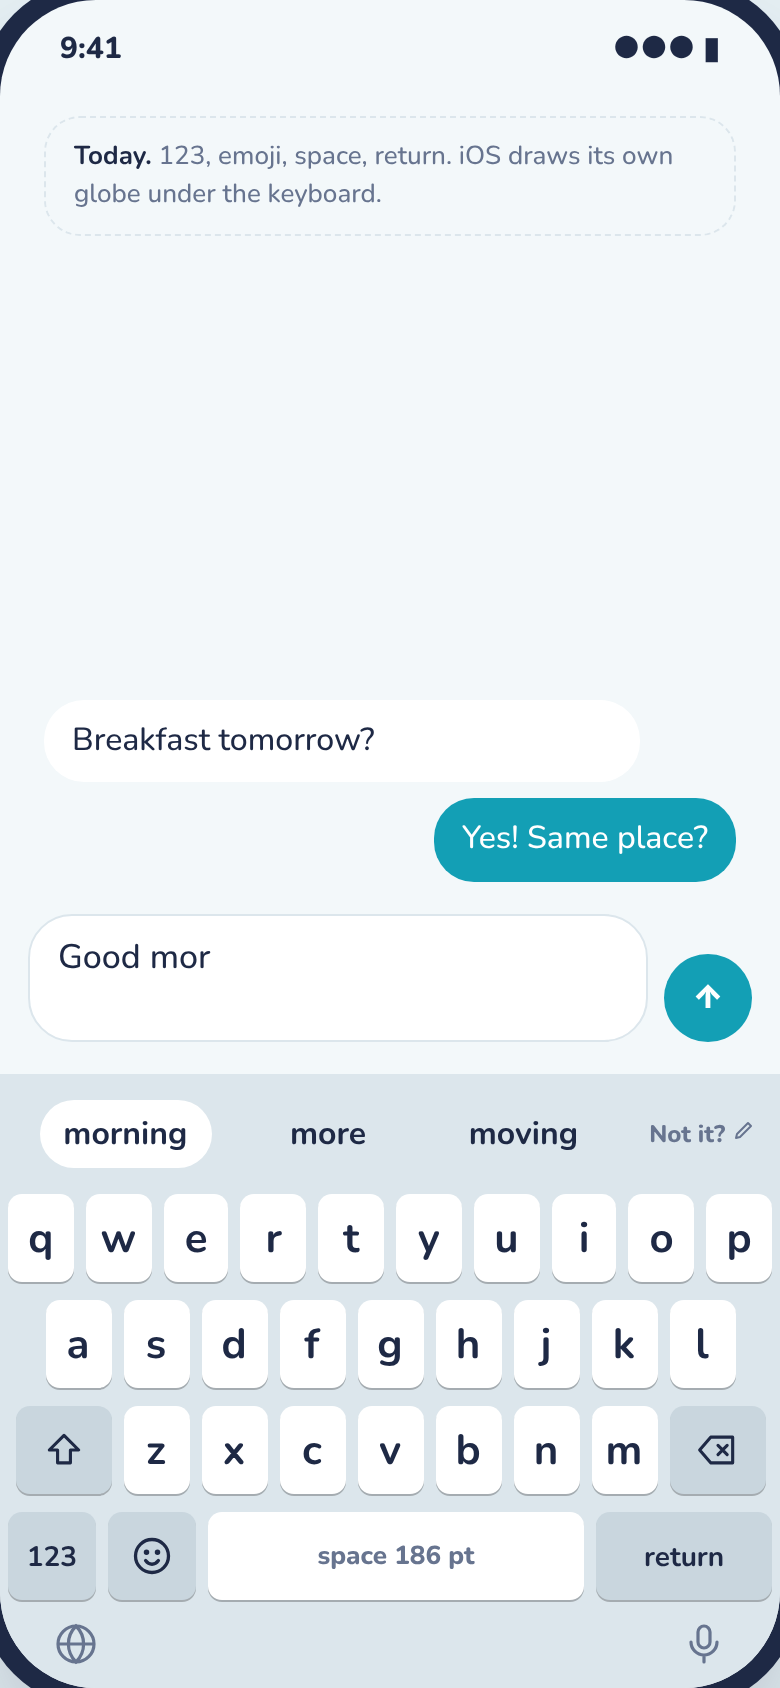
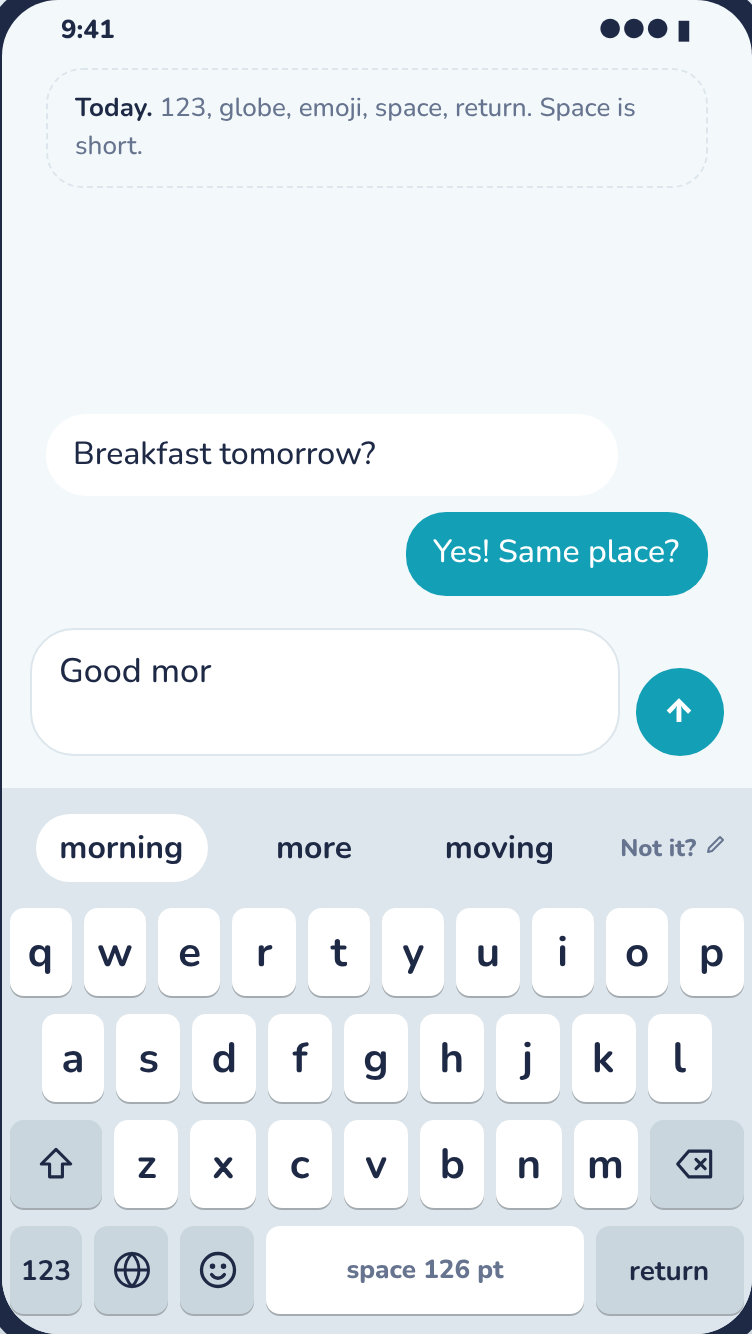
Astrotype: our globe key moves into the guesses bar
Where iOS draws no globe of its own, our globe sits at the bar's left end so space
gets wider. With the bar off or in a column it goes back next to 123. Emoji stays
on the row. Plan rewritten to match (features/space-bar).

Claude-Session: https://claude.ai/code/session_01GG78N8R5HvX2Ep7QQ68Y7m

diff --git a/apps/astrotype/features/space-bar/design/mockups/space-bar.html b/apps/astrotype/features/space-bar/design/mockups/space-bar.html
@@ -101,15 +101,15 @@ body{background:var(--stage);color:var(--ink);font-family:var(--font);
 <div class="stage">
   <nav class="picker" aria-label="Options">
     <h1>Wider space</h1>
-    <p>Three ways to give space more room. Tap the emoji key (or hold <b>123</b> where it's gone). Widths are for the phone shown.</p>
-    <small>Option</small>
-    <button data-opt="today">Today: emoji on the row</button>
-    <button data-opt="bar">A. Emoji in the guesses bar <span class="rec">Pick</span></button>
-    <button data-opt="hold">B. Only under a held 123</button>
+    <p>Where iOS draws no globe of its own (Home button iPhones, the iPhone Duo), our globe moves into the guesses bar and space gets its room. Emoji stays next to 123. Widths are for the phone shown.</p>
+    <small>Screen</small>
+    <button data-opt="today">Today: globe on the row</button>
+    <button data-opt="bar">Globe in the bar <span class="rec">Gabriel's pick</span></button>
+    <button data-opt="off">Guesses bar turned off</button>
     <small>Phone</small>
     <div class="seg" id="phones">
+      <button data-phone="se">Our globe (SE, Duo)</button>
       <button data-phone="faceid">Face ID iPhone</button>
-      <button data-phone="se">Home button (SE)</button>
     </div>
     <small>Theme</small>
     <div class="seg" id="themes">
@@ -130,18 +130,18 @@ const I = {
 };
 // Space bar widths in points, from Layout.qwerty's numbers (fnKey 1.33 units, return 2.66).
 const WIDTH = {
-  faceid:{today:186, bar:237, hold:237},
-  se:{today:126, bar:224, hold:175}
+  faceid:{today:186, bar:186, off:186},
+  se:{today:126, bar:175, off:126}
 };
 const NOTES = {
-  today:{faceid:`<b>Today.</b> 123, emoji, space, return. iOS draws its own globe under the keyboard.`,
-         se:`<b>Today, Home button phone.</b> iOS draws no globe here, so ours sits beside emoji and space is short.`},
-  bar:{faceid:`<b>A. Emoji in the bar.</b> The emoji key moves to the left end of the guesses bar. The row is 123, space, return, so space is about <b>27% wider</b>.`,
-       se:`<b>A, Home button phone.</b> Emoji on the left of the bar, our globe on the right. Space is about <b>78% wider</b>.`},
-  hold:{faceid:`<b>B. Only under a held 123.</b> No emoji key anywhere: hold <b>123</b> and tap Emoji at the top of the panel. Same row as A.`,
-        se:`<b>B, Home button phone.</b> Apple asks for a visible next-keyboard key on these phones, so our globe stays on the row. Emoji is under a held 123.`}
+  today:{faceid:`<b>Face ID iPhone.</b> iOS draws its own globe under the keyboard, so ours never shows and nothing changes here.`,
+         se:`<b>Today.</b> 123, globe, emoji, space, return. Space is short.`},
+  bar:{faceid:`<b>Face ID iPhone.</b> iOS draws its own globe under the keyboard, so ours never shows and nothing changes here.`,
+       se:`<b>Globe in the bar.</b> Our globe sits at the bar's left end in every state. The row is 123, emoji, space, return, so space is about <b>39% wider</b>.`},
+  off:{faceid:`<b>Face ID iPhone.</b> iOS draws its own globe under the keyboard, so ours never shows and nothing changes here.`,
+       se:`<b>Bar turned off.</b> With no bar to hold it, the globe goes back next to 123, as today. Same when the guesses sit in a column (wide screens).`}
 };
-let opt="bar", phone="faceid", panel=false, toast="";
+let opt="bar", phone="se", panel=false, toast="";
 
 function letters(){
   const r=["qwertyuiop","asdfghjkl","zxcvbnm"];
@@ -152,18 +152,18 @@ function letters(){
 }
 function kb(){
   const se=phone==="se";
-  const rowEmoji = opt==="today";
-  const rowGlobe = se && (opt==="today"||opt==="hold");
-  const barEmoji = opt==="bar";
+  const rowEmoji = true;
+  const rowGlobe = se && opt!=="bar";
+  const barEmoji = false;
   const barGlobe = se && opt==="bar";
+  const showBar = opt!=="off";
   const w=WIDTH[phone][opt], base=WIDTH[phone].today;
-  const grow = opt==="today" ? "" : ` <span style="color:var(--accent)">+${Math.round((w/base-1)*100)}%</span>`;
-  const bar = `<div class="bar">
-      ${barEmoji?`<button class="barkey new" data-act="emoji" aria-label="Emoji">${I.smiley}</button>`:""}
+  const grow = w===base ? "" : ` <span style="color:var(--accent)">+${Math.round((w/base-1)*100)}%</span>`;
+  const bar = showBar?`<div class="bar">
+      ${barGlobe?`<button class="barkey new" aria-label="Next keyboard">${I.globe}</button>`:""}
       <div class="guesses"><span class="g top">morning</span><span class="g">more</span><span class="g">moving</span></div>
       <span class="notit">Not it? ${I.pencil}</span>
-      ${barGlobe?`<button class="barkey new" aria-label="Next keyboard">${I.globe}</button>`:""}
-    </div>`;
+    </div>`:"";
   const bottom = `<div class="krow">
       <button class="key fn" data-act="hold" aria-label="Numbers, hold for settings">123</button>
       ${rowGlobe?`<button class="key fn" aria-label="Next keyboard">${I.globe}</button>`:""}
@@ -172,10 +172,6 @@ function kb(){
       <button class="key ret">return</button></div>`;
   const pnl = panel?`<div class="panel">
       <div class="head">Keyboard <button class="done" data-act="close">Done</button></div>
-      <div class="jump">
-        <button class="new" data-act="emoji">${I.smiley} Emoji</button>
-        ${se&&opt!=="hold"?"":""}
-      </div>
       <div class="tiles"><div class="tile on">Autospace</div><div class="tile on">Guesses bar</div><div class="tile on">Haptics</div><div class="tile">Trails</div></div>
       <div class="sl"></div><div class="sl"></div>
     </div>`:"";
@@ -206,7 +202,7 @@ document.addEventListener("click",e=>{
 // Hold 123 for the panel (or click it in the mockup when the emoji key is gone).
 let t;
 document.addEventListener("pointerdown",e=>{const b=e.target.closest('[data-act="hold"]');if(b)t=setTimeout(()=>{panel=true;render()},450)});
-document.addEventListener("pointerup",e=>{clearTimeout(t);const b=e.target.closest('[data-act="hold"]');if(b&&opt==="hold"&&!panel){panel=true;render()}});
+document.addEventListener("pointerup",e=>{clearTimeout(t);const b=e.target.closest('[data-act="hold"]');});
 document.querySelector('[data-theme="auto"]').setAttribute("aria-pressed","true");
 const q=new URLSearchParams(location.search);
 if(q.get("opt"))opt=q.get("opt"); if(q.get("phone"))phone=q.get("phone"); if(q.get("panel"))panel=true;

diff --git a/apps/astrotype/ios/AstrotypeKit/Sources/AstrotypeUI/KeyboardView.swift b/apps/astrotype/ios/AstrotypeKit/Sources/AstrotypeUI/KeyboardView.swift
@@ -27,8 +27,10 @@ public final class KeyboardView: UIView, KeySurfaceDelegate, UIInputViewAudioFee
     public let surface = KeySurfaceView()
     /// Keys the engine leaves to the host: the globe.
     public var onSystemKey: ((Key) -> Void)?
-    /// Whether the bottom row has a globe key before the emoji key: the extension sets
-    /// it from `needsInputModeSwitchKey` (true only where iOS draws no globe of its own).
+    /// Whether the keyboard has our globe key: the extension sets it from
+    /// `needsInputModeSwitchKey` (true only where iOS draws no globe of its own). It
+    /// sits at the bar's leading end when the bar is on top, else on the bottom row
+    /// before the emoji key (features/space-bar).
     public var showsGlobe = false {
         didSet { if showsGlobe != oldValue { setNeedsLayout() } }
     }
@@ -81,6 +83,7 @@ public final class KeyboardView: UIView, KeySurfaceDelegate, UIInputViewAudioFee
         bar.onBoost = { [weak self] index in self?.model.boost(guess: index) }
         bar.onForget = { [weak self] index in self?.model.forget(guess: index) }
         bar.onNotIt = { [weak self] in self?.model.beginCorrection() }
+        bar.onGlobe = { [weak self] in self?.onSystemKey?(.globe) }
         bar.onCancelCorrection = { [weak self] in self?.model.cancelCorrection() }
         bar.onSaveCorrection = { [weak self] in self?.model.saveCorrection() }
         model.onChange = { [weak self] in self?.render() }
@@ -142,10 +145,10 @@ public final class KeyboardView: UIView, KeySurfaceDelegate, UIInputViewAudioFee
         let room = bounds.height - (barOnTop ? Self.barHeight : 0)
         let fill: CGFloat? = room > 0 ? min(room, natural.height) : nil
         if model.layout.width != width || model.layout.split != natural.split || model.layout.extraLetters != natural.extraLetters
-            || model.layout.globe != showsGlobe || model.layout.bottomRow != bottom || fill != keysHeight || place != self.place {
+            || model.layout.globe != rowGlobe(place) || model.layout.bottomRow != bottom || fill != keysHeight || place != self.place {
             keysHeight = fill
             self.place = place
-            model.layout = Layout.qwerty(width: width, split: split, extraLetters: extraLetters, globe: showsGlobe, height: fill,
+            model.layout = Layout.qwerty(width: width, split: split, extraLetters: extraLetters, globe: rowGlobe(place), height: fill,
                                          bottom: bottom)
             surface.layout = pageLayout(width: width, height: fill)
         }
@@ -157,6 +160,7 @@ public final class KeyboardView: UIView, KeySurfaceDelegate, UIInputViewAudioFee
         }
         let keys = model.layout.height
         let top = max(0, bounds.height - keys - (barOnTop ? Self.barHeight : 0))
+        bar.showsGlobe = showsGlobe && place == .top
         switch place {
         case .top:
             bar.isHidden = false
@@ -194,9 +198,13 @@ public final class KeyboardView: UIView, KeySurfaceDelegate, UIInputViewAudioFee
     }
 
     private func pageLayout(width: CGFloat, height: CGFloat?) -> Layout {
-        Layout.qwerty(width: width, page: page, split: model.splitOnWide, extraLetters: extraLetters, globe: showsGlobe,
+        Layout.qwerty(width: width, page: page, split: model.splitOnWide, extraLetters: extraLetters, globe: rowGlobe(place),
                       height: height, bottom: model.field.bottomRow)
     }
+
+    /// Whether our globe goes on the bottom row: only when there's no bar on top to
+    /// hold it (the bar is off, or the guesses are a column).
+    private func rowGlobe(_ place: BarPlace) -> Bool { showsGlobe && place != .top }
 
     /// The split's extra letters, as set.
     private var extraLetters: Bool { model.keyboardSettings.splitExtraLetters

diff --git a/apps/astrotype/ios/AstrotypeKit/Sources/AstrotypeCore/Layout.swift b/apps/astrotype/ios/AstrotypeKit/Sources/AstrotypeCore/Layout.swift
@@ -13,7 +13,8 @@ public enum Key: Hashable, Sendable {
     case symbols
     /// Back to the letters ("ABC").
     case letters
-    /// The next keyboard, only where iOS draws no globe of its own (Home button phones).
+    /// The next keyboard, only where iOS draws no globe of its own (Home button phones,
+    /// the iPhone Duo): on this row only when the guesses bar isn't on top to hold it.
     case globe
     /// The emoji page (features/emoji).
     case emoji
@@ -130,7 +131,8 @@ public struct Layout: Sendable, Equatable {
     /// left, T F C on the right (an option, Gabriel, 2 Nov 2026).
     public let extraLetters: Bool
     /// The bottom row has a globe key before the emoji key, for phones where iOS draws
-    /// no globe under the keyboard (`needsInputModeSwitchKey`, the Home button phones).
+    /// no globe under the keyboard (`needsInputModeSwitchKey`) and the guesses bar is
+    /// off or a column; with the bar on top the globe sits in it (features/space-bar).
     /// Without it the emoji key sits where the globe was, as on Apple's keyboard.
     public let globe: Bool
     /// The keyboard's height: the keys and, under the bottom row, `bottomInset`. No

diff --git a/apps/astrotype/features/space-bar/FEATURE.md b/apps/astrotype/features/space-bar/FEATURE.md
@@ -1,85 +1,64 @@
 # Astrotype: Wider space bar
 
-Space gets more room: the emoji key (and our globe, on Home button phones) can move off
-the bottom row into the guesses bar, or out of sight under a held `123`.
+Where our keyboard shows its own globe key, the globe moves into the guesses bar, so
+space gets the room.
 
-Gabriel, 3 Nov 2026: "I want more space for the actual spacebar key. Could we move it so
-that maybe the emoji and the world buttons are on the top thing instead? ... One other
-option is we could have it be an option that the user can select ... it would be
-available only under the 1, 2, 3 menu."
+Gabriel, 3 Nov 2026: "I want more space for the actual spacebar key." Then, after a
+first plan that moved the emoji key: "Let's keep the emoji button on the bottom near
+the 1, 2, 3 ... move the globe button by default to the top left. And then if the user
+hides that bar, it goes to next to the 1, 2, 3 as right now." And: "No setting exists
+to remove it or move it."
 
 ## Product
 
-Status: Draft
+Status: Draft (as Gabriel described it in the thread; approved when he says merge)
 
-- **The problem:** since the emoji page (features/emoji) the bottom row is `123`,
-  emoji, space, return, so space is about 186 pt on a 390 pt iPhone. On a Home button
-  phone our globe sits there too and space drops to about 126 pt. Space is the key
-  both thumbs hit most, and a short one gets missed.
-- **Who wants it:** everyone; most of all people on smaller phones and people who rarely
-  type emoji.
-- **Basics or powerful:** the new default is basics (nothing to learn). Where the emoji
-  key lives is a powerful setting, tucked into Appearance.
-- **How it works (proposed):**
-  - *A setting,* Settings → Appearance → "Emoji key", three choices:
-    - **In the guesses bar** (the default): the emoji key sits at the left end of the
-      bar, the row becomes `123`, space, return, and space is about 27% wider (237 pt
-      on a 390 pt phone).
-    - **On the bottom row:** today's row, for people who want it where Apple's is.
-    - **Hold 123 only:** no emoji key; hold `123` and tap "Emoji" at the top of the
-      keyboard panel. Space is as wide as in the bar option.
-  - *Our globe, Home button phones only* (iPhone SE; iOS draws its own globe under the
-    keyboard on every other iPhone): it follows the emoji key into the bar, at the
-    bar's right end, after "Not it?". Space is then about 78% wider (224 pt). Apple
-    asks keyboards to show a next-keyboard key on these phones (`needsInputModeSwitchKey`,
-    App Review 4.4.1), so in "Hold 123 only" our globe stays on the row and only the
-    emoji key goes.
-  - *When there's no bar:* if "Guesses bar" is off, or the guesses sit in a column (wide
-    screens and the split keyboard, where space is already wide), the "In the guesses
-    bar" choice puts the keys back on the bottom row, so they never vanish by accident.
-  - The numbers and symbols pages get the same bottom row as the letters page.
-  - The held-`123` panel gains the "Emoji" button in every choice (it's a cheap way
-    to reach the page), but only "Hold 123 only" relies on it.
-- **What it changes:** `Layout.qwerty` (the bottom row without the emoji key), the
-  guesses bar (`BarView`: a key at each end), the keyboard panel (`SettingsPanelView`: an Emoji button),
-  `KeyboardSettings` (one new value, `emojiKey`), and the Appearance page. No stored
-  value changes; the default moves the emoji key, so people see it in the bar after
-  the update.
-- **Scope:** this version: the three choices above. Later: nothing planned. Never:
-  hiding our globe on a Home button phone.
+- **The problem:** where iOS draws no globe of its own (Home button iPhones, and the
+  iPhone Duo, Gabriel, 3 Nov 2026), our bottom row is `123`, globe, emoji, space,
+  return, so space is short (about 126 pt on a 375 pt phone).
+- **Who wants it:** everyone on those phones. Nothing changes where iOS draws the globe
+  (Face ID iPhones), since our globe doesn't show there.
+- **Basics or powerful:** basics. No setting.
+- **How it works:**
+  - Whenever our keyboard shows a globe (`needsInputModeSwitchKey`), it sits at the left
+    end of the guesses bar, in every bar state. The row becomes `123`, emoji, space,
+    return; space is about 39% wider (175 pt on a 375 pt phone).
+  - When there's no bar on top to hold it (Settings "Guesses bar" is off, or the
+    guesses sit in a column on a wide or split keyboard), the globe goes back on the
+    row next to `123`, as before.
+  - The emoji key stays on the row next to `123` everywhere. No setting moves or hides
+    either key.
+  - The numbers and symbols pages follow the letters page.
+- **What it changes:** `KeyboardView` (where the globe goes), `BarView` (a globe button
+  at the leading end). `Layout` is unchanged: its `globe` flag now means "on the row".
+- **Scope:** this version: the above. Never: hiding the globe (Apple asks keyboards to
+  show one where iOS doesn't).
 - **What we measure:** nothing new (the extension sends no metrics).
-- **Open questions** for Gabriel
-  1. Default: in the bar (proposed), or keep the row as the default and make the bar
-     and "Hold 123 only" opt-in?
-  2. Is "Hold 123 only" worth having next to the bar option, or is the bar enough?
 
 ## Design
 
 Status: Draft
 
 - **Mockup:** `design/mockups/space-bar.html` (Artifact link:
-  https://claude.ai/artifact/KbrM45mHqsnCDTf5UNYM4A). Pick an option and a phone; tap
-  the emoji key, or hold `123` where it's gone. Space shows its width in points.
-- **What changes:**
+  https://claude.ai/artifact/KbrM45mHqsnCDTf5UNYM4A).
 
   | Screen | Before | After |
   |---|---|---|
-  | Letters, Face ID phone | [today](design/screens/01-today.png) | [in the bar](design/screens/02-bar.png), [hold 123 only](design/screens/03-hold.png) |
-  | Letters, Home button phone | [today](design/screens/07-today-se.png) | [in the bar](design/screens/05-bar-se.png), [hold 123 only](design/screens/06-hold-se.png) |
-  | Keyboard panel (held `123`) | [today](../settings/design/screens/09-panel.png) | [with Emoji](design/screens/04-hold-panel.png) |
+  | Letters, phone with our globe | [today](design/screens/01-today.png) | [globe in the bar](design/screens/02-globe-in-bar.png), [dark](design/screens/05-globe-in-bar-dark.png) |
+  | Letters, guesses bar off | [today](design/screens/01-today.png) | [same as today](design/screens/03-bar-off.png) |
+  | Letters, Face ID iPhone | [no change](design/screens/04-face-id.png) | |
 
-  Dark: [in the bar](design/screens/08-bar-dark.png).
-- **The bar keys:** 40 pt wide, the full bar height (44 pt) to touch, the SF Symbol
-  (`face.smiling`, `globe`) at 22 pt in `ink`, no key background, so they read as part
-  of the bar rather than as keys. Pressed: a `keyDark` rounded fill. The guesses share
-  what's left between them, as now. While "Not it?" is a field the emoji key hides
-  (the field needs the room). On the emoji page the bar is hidden anyway.
-- **The panel button:** a full-width card row at the top of the panel, `face.smiling`
-  and "Emoji", 48 pt high. It closes the panel and opens the emoji page.
-- **Setting copy:** Appearance → "Emoji key": "In the guesses bar", "On the bottom row",
-  "Hold 123 only". Footnote: "Moving it off the row makes space wider."
-- **Motion:** none new. Changing the setting relays the keys at once, like the height.
-- **Sizes:** phone and small (Duo outer) as drawn. Wide (Duo inner) and split put the
-  guesses in a column, so the keys stay on the row there in the bar option.
-- **Accessibility:** the bar keys keep the labels "Emoji" and "Next keyboard" and a
-  44 pt target. VoiceOver reads them before the guesses (left) and after (right).
+- **The bar's globe:** 44 pt wide, the bar's full height to touch, SF Symbol `globe` at
+  20 pt in `keyInk`, no key background. The guesses, FIX, "Not it?" and its field
+  share what's left to its right. The guesses bar is being redesigned
+  (features/guesses-bar) with a button slot at each end; the globe takes the left slot
+  there.
+- **Accessibility:** "Next keyboard", read first in the bar.
+
+## Build
+
+Status: Draft
+
+- [x] `BarView.showsGlobe` and `onGlobe`: the button at the leading end.
+- [x] `KeyboardView`: the globe goes in the bar when the bar is on top, else on the row
+  (`rowGlobe(_:)`); the bar's globe calls `onSystemKey(.globe)` like the key did.

diff --git a/apps/astrotype/DESIGN.md b/apps/astrotype/DESIGN.md
@@ -136,9 +136,10 @@ This is the product, so it gets its own section.
   2 Nov 2026).
 - **Layout:** Apple's QWERTY proportions, so muscle memory carries over. Rows of 10, 9
   and 7 letters, shift and backspace on the third row, `123`, emoji, space and return on
-  the fourth, as on Apple's (iOS draws its globe under the keyboard). On a Home button
-  phone, where iOS draws none, our globe sits before the emoji key and space is shorter
-  (`features/emoji`, 3 Nov 2026). Space reads "Astrotype" when idle, like Apple's reads the language.
+  the fourth, as on Apple's (iOS draws its globe under the keyboard). Where iOS draws
+  none (a Home button phone, the iPhone Duo), our globe sits at the left end of the
+  guesses bar, so space keeps its room; with the bar off or in a column it goes back
+  before the emoji key (`features/space-bar`, 3 Nov 2026). Space reads "Astrotype" when idle, like Apple's reads the language.
 - **Size:** every key sits where Apple's does, so muscle memory carries over: the top
   of our top row is the top of Apple's, and the bottom of our bottom row is the bottom
   of Apple's (measured on iOS 26: rows spanning 213 pt on a phone with 7 pt under them,
